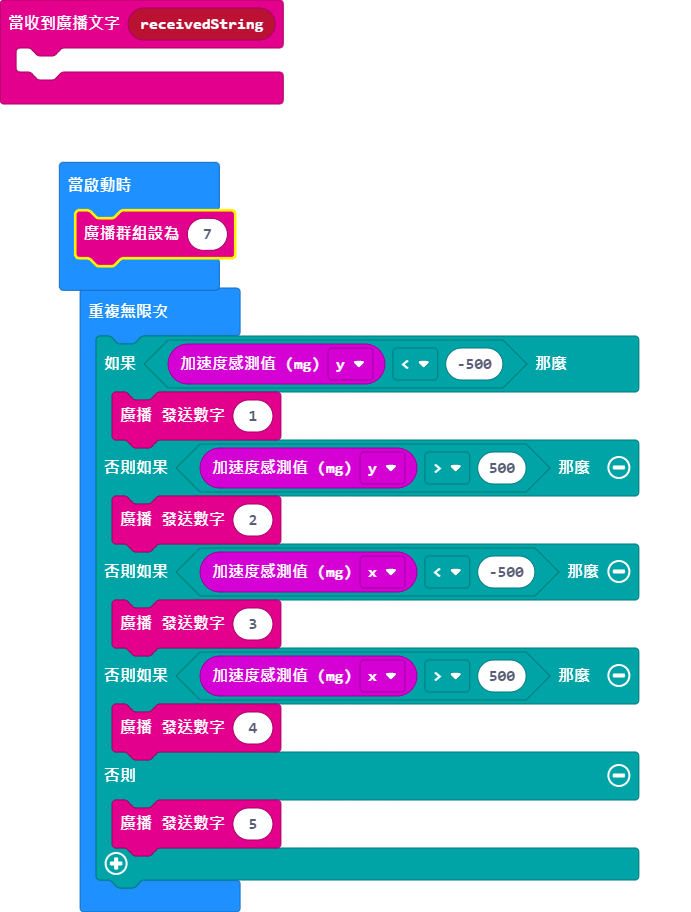
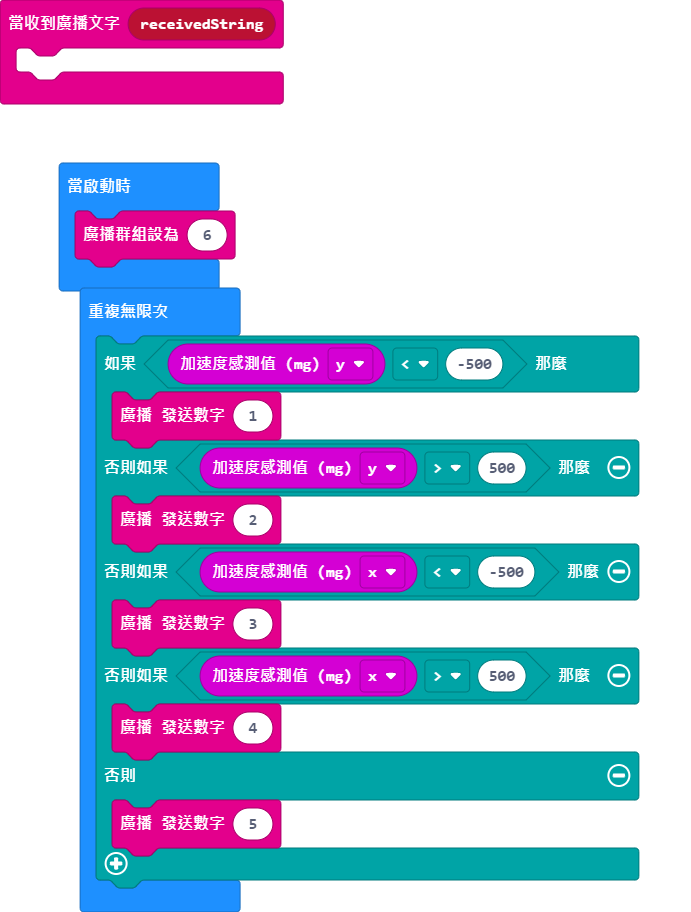
2

Changed region(s): [[0.0912, 0.1535, 0.3343, 0.3377], [0.3343, 0.2456, 0.3647, 0.2763]]

diff --git a/main.ts b/main.ts
@@ -1,7 +1,7 @@
 radio.onReceivedString(function (receivedString) {
 	
 })
-radio.setGroup(7)
+radio.setGroup(6)
 basic.forever(function () {
     if (input.acceleration(Dimension.Y) < -500) {
         radio.sendNumber(1)
